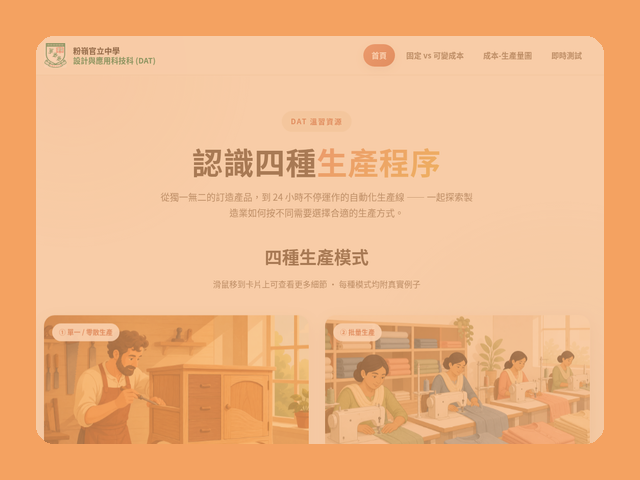
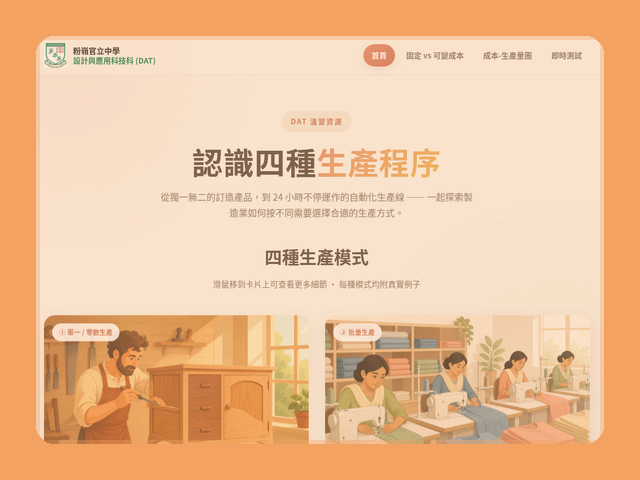
Harden card screenshots and pin image opacity at 1.
Replace the framed card art with less washed-out centers, cache-bust the image URLs, and set card images to full opacity.

diff --git a/index.html b/index.html
@@ -209,6 +209,7 @@
       width: 100%;
       height: 100%;
       object-fit: cover;
+      opacity: 1;
     }
     .card-face .chip {
       position: absolute;
@@ -345,7 +346,7 @@
     <div class="grid">
       <a class="card" href="https://dat-fgss.github.io/production/" target="_blank" rel="noopener">
         <div class="card-face tile-electronics">
-          <img src="assets/cards/card_03.png" alt="" />
+          <img src="assets/cards/card_03.png?v=20261023c" alt="" />
           <span class="chip">NEW</span>
         </div>
         <div class="card-meta">
@@ -356,7 +357,7 @@
       </a>
 <a class="card" href="https://dat-fgss.github.io/leverage/" target="_blank" rel="noopener">
         <div class="card-face tile-3dprint">
-          <img src="assets/cards/card_07.png" alt="" />
+          <img src="assets/cards/card_07.png?v=20261023c" alt="" />
           <span class="chip">NEW</span>
         </div>
         <div class="card-meta">
@@ -367,7 +368,7 @@
       </a>
 <a class="card" href="https://dat-fgss.github.io/torch/" target="_blank" rel="noopener">
         <div class="card-face tile-product">
-          <img src="assets/cards/card_01.png" alt="" />
+          <img src="assets/cards/card_01.png?v=20261023c" alt="" />
           <span class="chip">NEW</span>
         </div>
         <div class="card-meta">
@@ -378,7 +379,7 @@
       </a>
 <a class="card" href="https://dat-fgss.github.io/color-simulator/" target="_blank" rel="noopener">
         <div class="card-face tile-woodwork">
-          <img src="assets/cards/card_06.png" alt="" />
+          <img src="assets/cards/card_06.png?v=20261023c" alt="" />
           <span class="chip">NEW</span>
         </div>
         <div class="card-meta">
@@ -389,7 +390,7 @@
       </a>
 <a class="card" href="https://dat-fgss.github.io/thin-thick-line/" target="_blank" rel="noopener">
         <div class="card-face tile-drawing">
-          <img src="assets/cards/card_05.png" alt="" />
+          <img src="assets/cards/card_05.png?v=20261023c" alt="" />
           <span class="chip">NEW</span>
         </div>
         <div class="card-meta">
@@ -400,7 +401,7 @@
       </a>
 <a class="card" href="https://dat-fgss.github.io/quiz-thin-thick/" target="_blank" rel="noopener">
         <div class="card-face tile-stem">
-          <img src="assets/cards/card_02.png" alt="" />
+          <img src="assets/cards/card_02.png?v=20261023c" alt="" />
           <span class="chip">NEW</span>
         </div>
         <div class="card-meta">
@@ -411,7 +412,7 @@
       </a>
 <a class="card" href="https://dat-fgss.github.io/prompt-test/" target="_blank" rel="noopener">
         <div class="card-face tile-mech">
-          <img src="assets/cards/card_08.png" alt="" />
+          <img src="assets/cards/card_08.png?v=20261023c" alt="" />
           <span class="chip">NEW</span>
         </div>
         <div class="card-meta">
